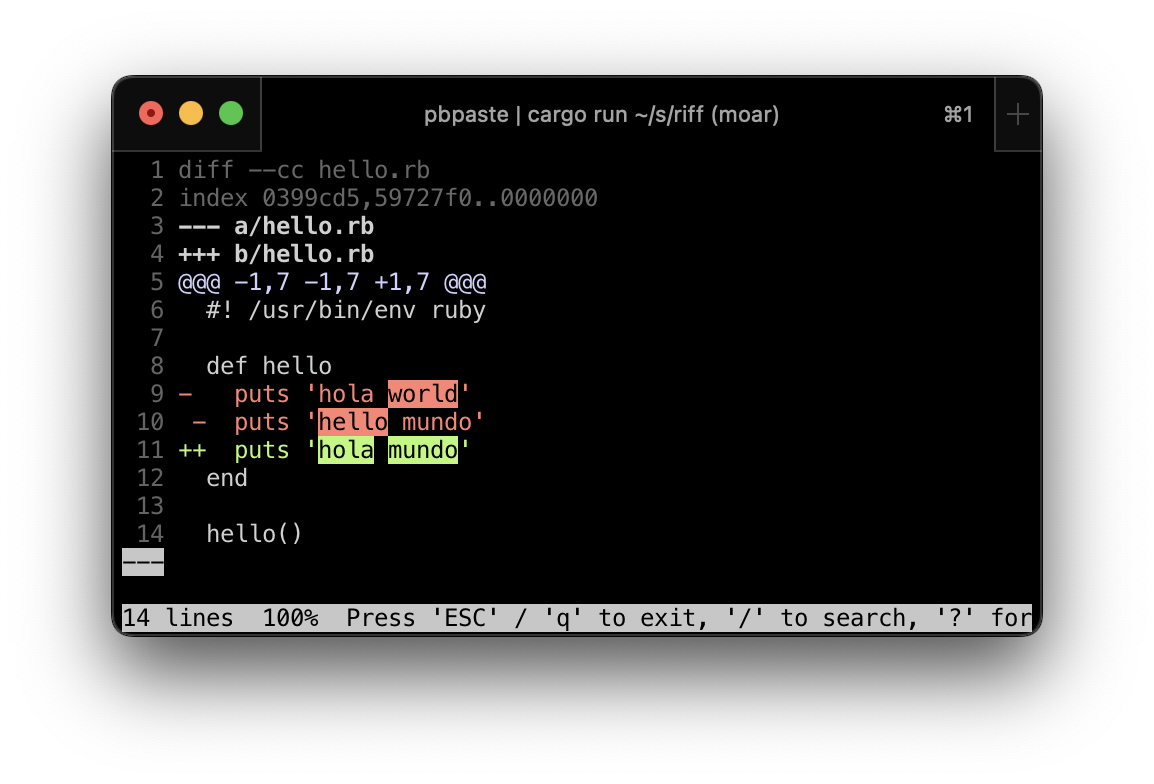
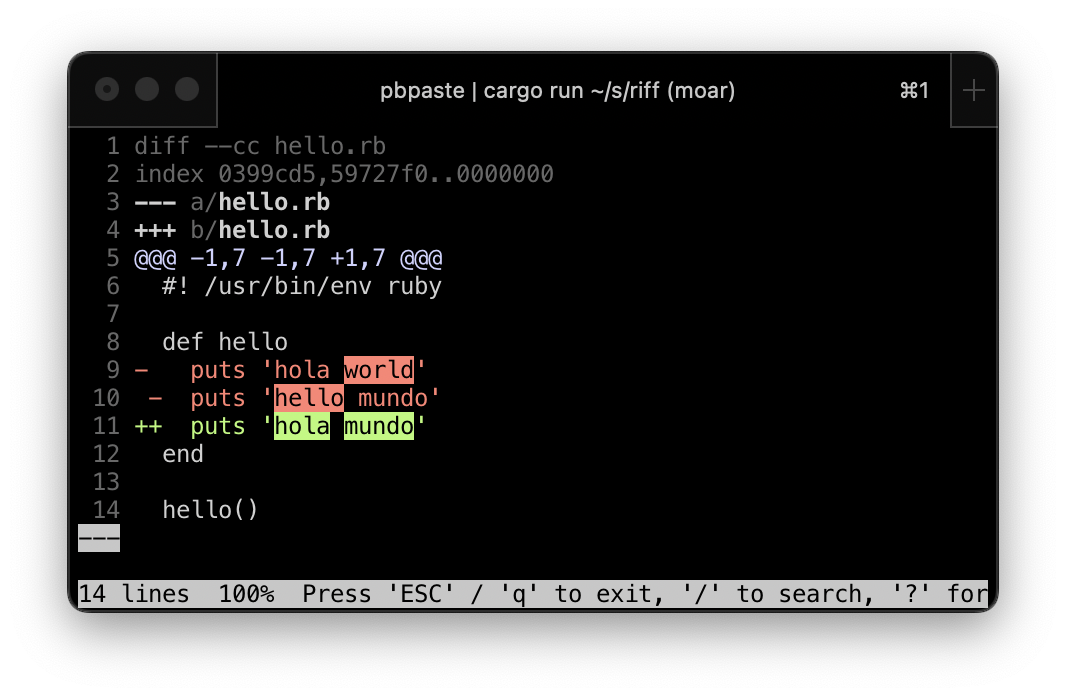
Update the screenshots

Changed region(s): [[0.031, 0.0603, 0.9597, 0.9353]]

diff --git a/SCREENSHOTS.md b/SCREENSHOTS.md
@@ -1,0 +1,27 @@
+To update `screenshot-git-merge.png`, you should be running
+[iTerm2](https://iterm2.com/) and have [`moar`](https://github.com/walles/moar)
+as your pager.
+
+Then:
+
+1. Scale your terminal window to 65x17
+2. Copy the below example to the clipboard
+3. `pbpaste | cargo run`
+4. Screenshot the window and store it as `screenshot-git-merge.png`
+
+```diff
+diff --cc hello.rb
+index 0399cd5,59727f0..0000000
+--- a/hello.rb
++++ b/hello.rb
+@@@ -1,7 -1,7 +1,7 @@@
+  #! /usr/bin/env ruby
+
+  def hello
+-   puts 'hola world'
+ -  puts 'hello mundo'
+++  puts 'hola mundo'
+  end
+
+  hello()
+```
